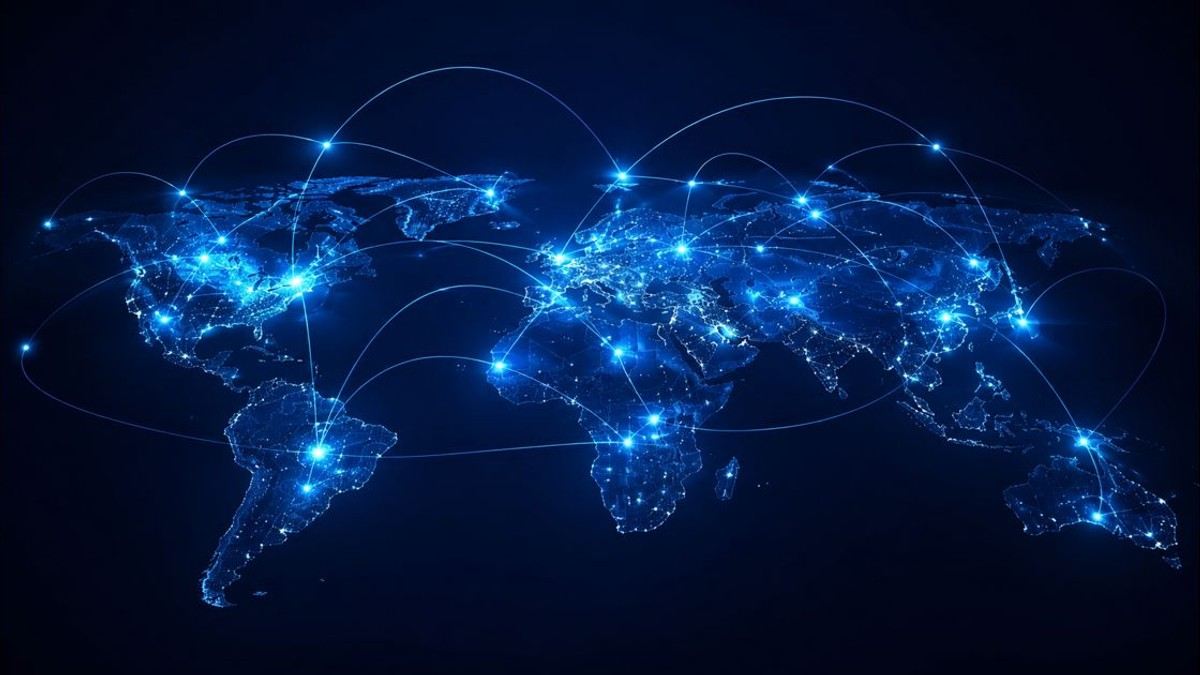
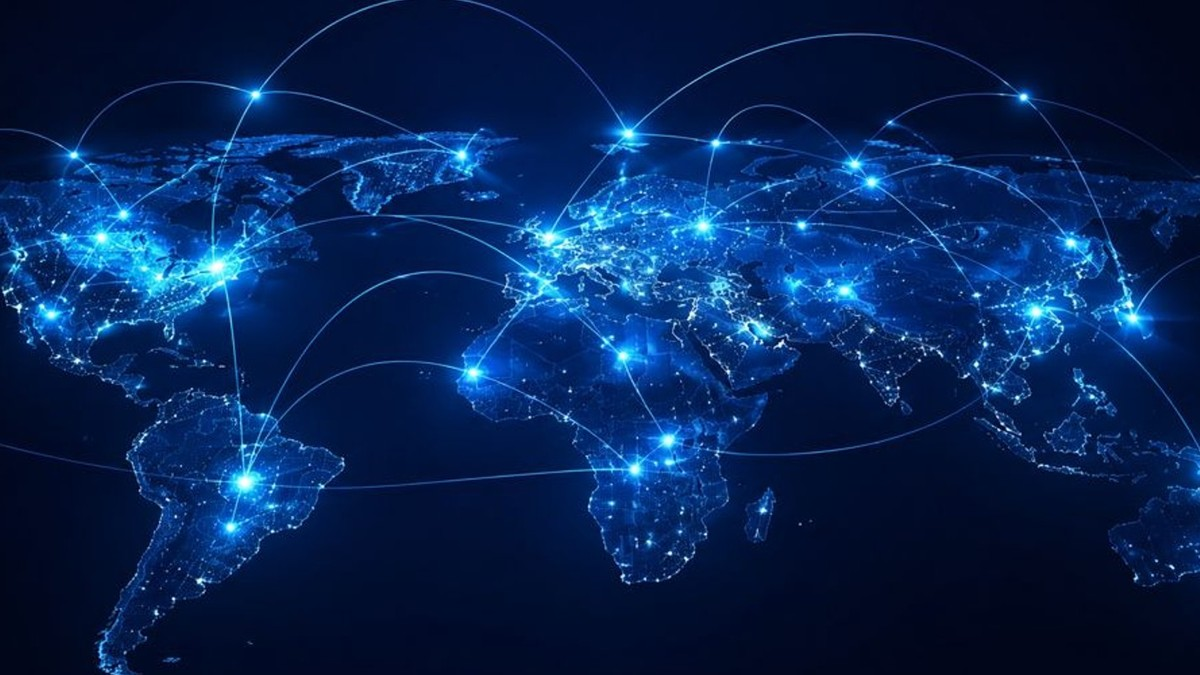
Use network.jpg as canonical global network map site-wide
Point hub news card to public/images/network.jpg and sync
news-facility.jpg from the same source for direct file access.

diff --git a/src/lib/images.ts b/src/lib/images.ts
@@ -1,4 +1,8 @@
 /** Site imagery. Replace files in `public/images/` with company photos when available. */
+const globalNetworkMap = "/images/network.jpg" as const;
+const globalNetworkMapAlt =
+  "Digital world map with glowing global network connections" as const;
+
 export const siteImages = {
   hero: {
     src: "/images/hero.jpg",
@@ -9,8 +13,8 @@ export const siteImages = {
     alt: "Warehouse and distribution facility",
   },
   network: {
-    src: "/images/network.jpg",
-    alt: "Digital world map with glowing global network connections",
+    src: globalNetworkMap,
+    alt: globalNetworkMapAlt,
   },
   qualityLab: {
     src: "/images/quality-lab.jpg",
@@ -30,8 +34,8 @@ export const siteImages = {
   },
   news: [
     {
-      src: "/images/news-facility.jpg",
-      alt: "Digital world map with glowing global network connections",
+      src: globalNetworkMap,
+      alt: globalNetworkMapAlt,
     },
     {
       src: "/images/news-quality.jpg",

diff --git a/docs/업데이트-배포-가이드.md b/docs/업데이트-배포-가이드.md
@@ -124,7 +124,7 @@ PR → main 머지
 | 한·영 문구 | `src/lib/i18n/translations.ts` |
 | 로고 파일 | `public/logo.png` |
 | 사진 (회사 실사로 교체) | `public/images/` 및 `src/lib/images.ts` |
-| 글로벌 네트워크 지도 (ChatGPT) | `public/images/news-facility.jpg`, `public/images/network.jpg` — 공유 링크 「지구의 디지털 네트워크 맵」 이미지. 교체 시 두 파일 모두 동일 이미지로 덮어쓰기 |
+| 글로벌 네트워크 지도 | **`public/images/network.jpg`** (기준 파일) — Hub 뉴스·Network 섹션 모두 이 파일 사용. 교체 시 `network.jpg`만 바꾸면 됨 |
 | 연락 이메일 | `translations.ts` → `common.email` |
 | 홈페이지 섹션 | `src/app/_components/site/` |
 
